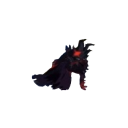
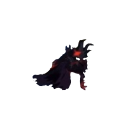
恐惧凝集特效

diff --git a/src/main/java/nearlmod/monsters/NightzmoraImitator.java b/src/main/java/nearlmod/monsters/NightzmoraImitator.java
@@ -2,12 +2,16 @@ package nearlmod.monsters;
 
 import com.evacipated.cardcrawl.mod.stslib.patches.core.AbstractCreature.TempHPField;
 import com.megacrit.cardcrawl.actions.common.DamageAction;
+import com.megacrit.cardcrawl.actions.utility.WaitAction;
 import com.megacrit.cardcrawl.cards.DamageInfo;
 import com.megacrit.cardcrawl.core.CardCrawlGame;
 import com.megacrit.cardcrawl.dungeons.AbstractDungeon;
 import com.megacrit.cardcrawl.localization.MonsterStrings;
 import com.megacrit.cardcrawl.monsters.AbstractMonster;
 import nearlmod.actions.RemoveLastFriendAction;
+import nearlmod.characters.Nearl;
+import nearlmod.orbs.AbstractFriend;
+import nearlmod.vfx.CoalescingFearEffect;
 
 public class NightzmoraImitator extends AbstractMonster {
     public static final String ID = "nearlmod:NightzmoraImitator";
@@ -48,14 +52,20 @@ public class NightzmoraImitator extends AbstractMonster {
         else {
             this.state.setAnimation(0, "Skill", false);
             this.state.addAnimation(0, "Idle", true, 0);
+            CardCrawlGame.sound.play("LAST_KHESHIG_SKILL");
             int def_val = AbstractDungeon.player.currentBlock + TempHPField.tempHp.get(AbstractDungeon.player);
             if (this.damage.get(1).output > def_val) {
-                // TODO: 背刺动画，攻击在最后一个伙伴上
-                addToBot(new DamageAction(AbstractDungeon.player, new DamageInfo(AbstractDungeon.player, def_val)));
-                addToBot(new RemoveLastFriendAction());
-            }
-            else {
-                addToBot(new DamageAction(AbstractDungeon.player, this.damage.get(1)));
+                addToTop(new DamageAction(AbstractDungeon.player, new DamageInfo(AbstractDungeon.player, def_val)));
+                AbstractFriend friend = ((Nearl)AbstractDungeon.player).lastFriend();
+                if (friend != null) {
+                    AbstractDungeon.effectList.add(new CoalescingFearEffect(drawX, drawY, friend.cX, friend.cY - friend.hb.height, 1.5F));
+                    addToTop(new RemoveLastFriendAction());
+                    addToTop(new WaitAction(1.3F));
+                }
+            } else {
+                AbstractDungeon.effectList.add(new CoalescingFearEffect(drawX, drawY, AbstractDungeon.player.drawX, AbstractDungeon.player.drawY, 3.0F));
+                addToTop(new DamageAction(AbstractDungeon.player, this.damage.get(1)));
+                addToTop(new WaitAction(0.5F));
             }
         }
         byte nextIntent;
@@ -68,7 +78,7 @@ public class NightzmoraImitator extends AbstractMonster {
                 setMove(nextIntent, Intent.ATTACK, this.damage.get(0).base);
             }
             else {
-                if (!AbstractDungeon.player.hasOrb()) {
+                if (!((Nearl)AbstractDungeon.player).hasFriend()) {
                     continue;
                 }
                 setMove(MOVES[0], nextIntent, Intent.ATTACK_DEBUFF, this.damage.get(1).base);
@@ -79,7 +89,7 @@ public class NightzmoraImitator extends AbstractMonster {
 
     @Override
     protected void getMove(int i) {
-        if ((AbstractDungeon.aiRng.random(0, 1) == 0) && (AbstractDungeon.player.hasOrb())) {
+        if ((AbstractDungeon.aiRng.random(0, 1) == 0) && ((Nearl)AbstractDungeon.player).hasFriend()) {
             setMove((byte)2, Intent.ATTACK_DEBUFF, this.damage.get(1).base);
         }
         else {

diff --git a/src/main/java/nearlmod/monsters/LastKheshig.java b/src/main/java/nearlmod/monsters/LastKheshig.java
@@ -5,6 +5,7 @@ import com.megacrit.cardcrawl.actions.animations.TalkAction;
 import com.megacrit.cardcrawl.actions.animations.VFXAction;
 import com.megacrit.cardcrawl.actions.common.*;
 import com.megacrit.cardcrawl.actions.utility.HideHealthBarAction;
+import com.megacrit.cardcrawl.actions.utility.WaitAction;
 import com.megacrit.cardcrawl.cards.DamageInfo;
 import com.megacrit.cardcrawl.core.CardCrawlGame;
 import com.megacrit.cardcrawl.dungeons.AbstractDungeon;
@@ -16,8 +17,11 @@ import nearlmod.actions.RemoveLastFriendAction;
 import nearlmod.actions.SummonFriendAction;
 import nearlmod.cards.AbstractNearlCard;
 import nearlmod.cards.special.BlemishinesFaintLight;
+import nearlmod.characters.Nearl;
+import nearlmod.orbs.AbstractFriend;
 import nearlmod.orbs.Blemishine;
 import nearlmod.powers.HintPower;
+import nearlmod.vfx.CoalescingFearEffect;
 
 public class LastKheshig extends AbstractMonster {
     public static final String ID = "nearlmod:LastKheshig";
@@ -89,11 +93,17 @@ public class LastKheshig extends AbstractMonster {
             CardCrawlGame.sound.play("LAST_KHESHIG_SKILL");
             int def_val = AbstractDungeon.player.currentBlock + TempHPField.tempHp.get(AbstractDungeon.player);
             if (this.damage.get(1).output > def_val) {
-                // TODO: 背刺动画，攻击在最后一个伙伴上
-                addToBot(new DamageAction(AbstractDungeon.player, new DamageInfo(AbstractDungeon.player, def_val)));
-                addToBot(new RemoveLastFriendAction());
+                addToTop(new DamageAction(AbstractDungeon.player, new DamageInfo(AbstractDungeon.player, def_val)));
+                AbstractFriend friend = ((Nearl)AbstractDungeon.player).lastFriend();
+                if (friend != null) {
+                    AbstractDungeon.effectList.add(new CoalescingFearEffect(drawX, drawY, friend.cX, friend.cY - friend.hb.height, 1.5F));
+                    addToTop(new RemoveLastFriendAction());
+                    addToTop(new WaitAction(1.3F));
+                }
             } else {
-                addToBot(new DamageAction(AbstractDungeon.player, this.damage.get(1)));
+                AbstractDungeon.effectList.add(new CoalescingFearEffect(drawX, drawY, AbstractDungeon.player.drawX, AbstractDungeon.player.drawY, 3.0F));
+                addToTop(new DamageAction(AbstractDungeon.player, this.damage.get(1)));
+                addToTop(new WaitAction(0.5F));
             }
         }
         byte nextIntent;
@@ -108,7 +118,7 @@ public class LastKheshig extends AbstractMonster {
                 if (fullImitator()) continue;
                 setMove(nextIntent, Intent.UNKNOWN);
             } else {
-                if (!AbstractDungeon.player.hasOrb()) {
+                if (!((Nearl)AbstractDungeon.player).hasFriend()) {
                     continue;
                 }
                 setMove(MOVES[0], nextIntent, Intent.ATTACK_DEBUFF, this.damage.get(1).base);

diff --git a/src/main/java/nearlmod/vfx/CoalescingFearEffect.java b/src/main/java/nearlmod/vfx/CoalescingFearEffect.java
@@ -1,0 +1,69 @@
+package nearlmod.vfx;
+
+import com.badlogic.gdx.Gdx;
+import com.badlogic.gdx.graphics.Texture;
+import com.badlogic.gdx.graphics.g2d.SpriteBatch;
+import com.badlogic.gdx.graphics.g2d.TextureAtlas;
+import com.megacrit.cardcrawl.core.Settings;
+import com.megacrit.cardcrawl.dungeons.AbstractDungeon;
+import com.megacrit.cardcrawl.vfx.AbstractGameEffect;
+import nearlmod.actions.RemoveLastFriendAction;
+
+public class CoalescingFearEffect extends AbstractGameEffect {
+    private final float sx;
+    private final float sy;
+    private final float tx;
+    private final float ty;
+    private final float scale;
+    private float x;
+    private float y;
+    private float ang;
+    private float alpha;
+    private float currentScale;
+    private float stayDuration;
+    public static final Texture img = new Texture("images/vfx/coalescingfear.png");
+    public static final TextureAtlas.AtlasRegion region = new TextureAtlas.AtlasRegion(img, 0, 0, img.getWidth(), img.getHeight());
+
+    public CoalescingFearEffect(float sx, float sy, float tx, float ty, float scale) {
+        duration = 1.0F;
+        startingDuration = duration;
+        stayDuration = 0.8F;
+        this.sx = sx;
+        this.sy = sy;
+        this.tx = tx;
+        this.ty = ty;
+        this.scale = scale * Settings.scale;
+    }
+
+    @Override
+    public void update() {
+        if (duration < 0.0F) {
+            stayDuration -= Gdx.graphics.getDeltaTime();
+            x = tx;
+            y = ty;
+            alpha = 1.0F;
+            currentScale = scale;
+            ang = 0.0F;
+            if (stayDuration < 0.0F) {
+                isDone = true;
+            }
+            return;
+        }
+        duration -= Gdx.graphics.getDeltaTime();
+        alpha = 1 - duration / startingDuration;
+        x = tx + (sx - tx) * duration / startingDuration;
+        y = ty + (sy - ty) * duration / startingDuration;
+        currentScale = scale * (1 - duration / startingDuration);
+        ang = 720.0F * (1 - duration / startingDuration);
+        while (ang > 360.0F) ang -= 360.0F;
+    }
+
+    @Override
+    public void render(SpriteBatch sb) {
+        sb.setColor(1.0F, 1.0F, 1.0F, alpha);
+        sb.draw(region, x, y, region.packedWidth / 2.0F, region.packedHeight / 2.0F, region.packedWidth, region.packedHeight, currentScale, currentScale, ang);
+    }
+
+    @Override
+    public void dispose() {}
+}

diff --git a/src/main/java/nearlmod/characters/Nearl.java b/src/main/java/nearlmod/characters/Nearl.java
@@ -378,4 +378,18 @@ public class Nearl extends CustomPlayer {
                 orbCount++;
         return orbCount;
     }
+
+    public boolean hasFriend() {
+        for (AbstractOrb orb : orbs)
+            if (orb instanceof AbstractFriend)
+                return true;
+        return false;
+    }
+
+    public AbstractFriend lastFriend() {
+        for (int i = orbs.size() - 1; i >= 0; i--)
+            if (orbs.get(i) instanceof AbstractFriend)
+                return (AbstractFriend)orbs.get(i);
+        return null;
+    }
 }
